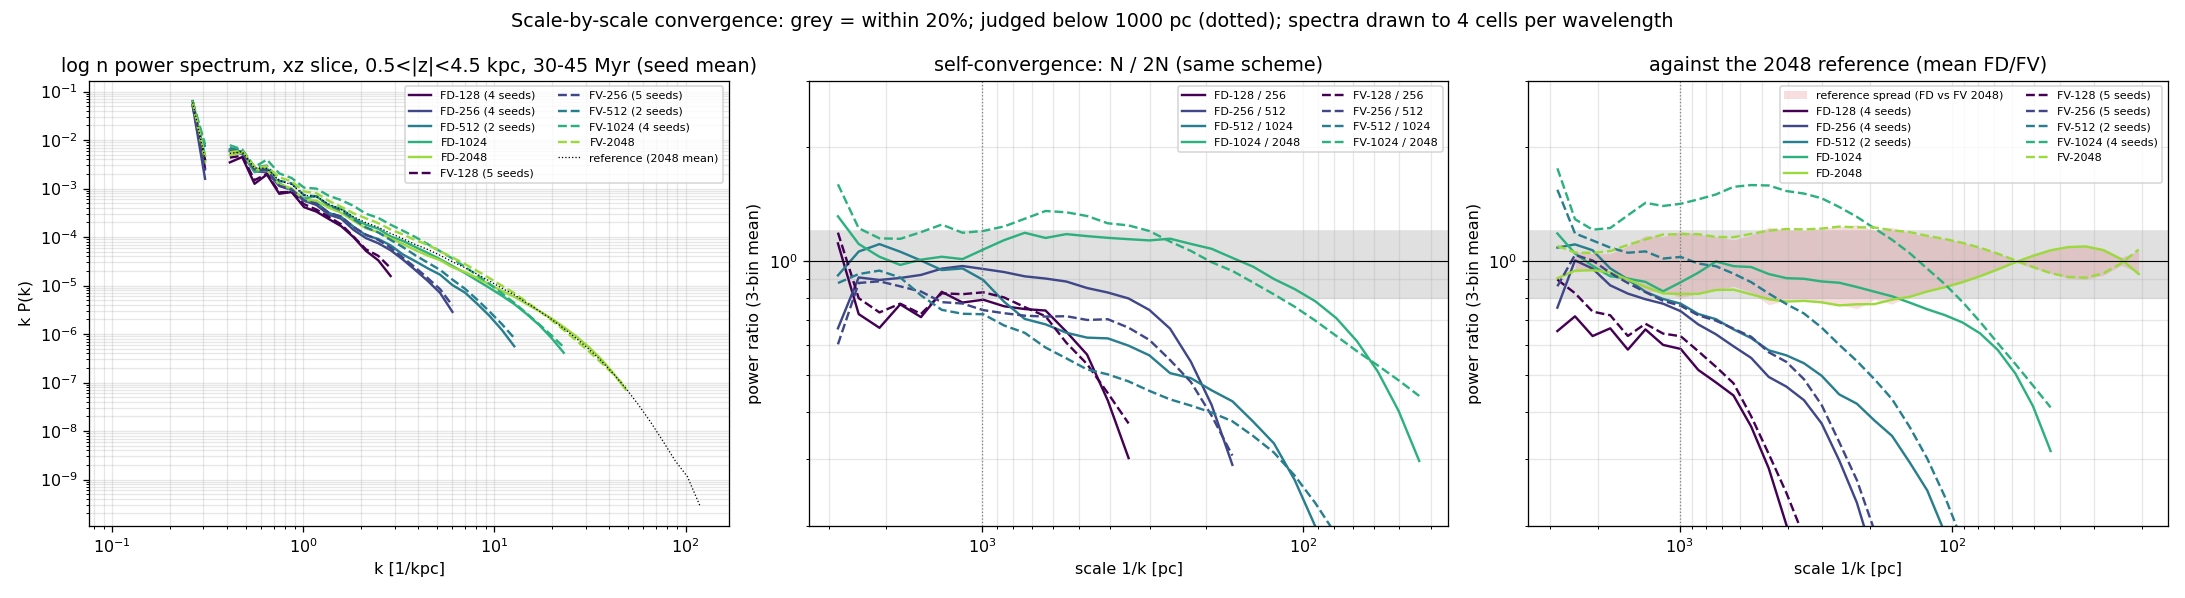
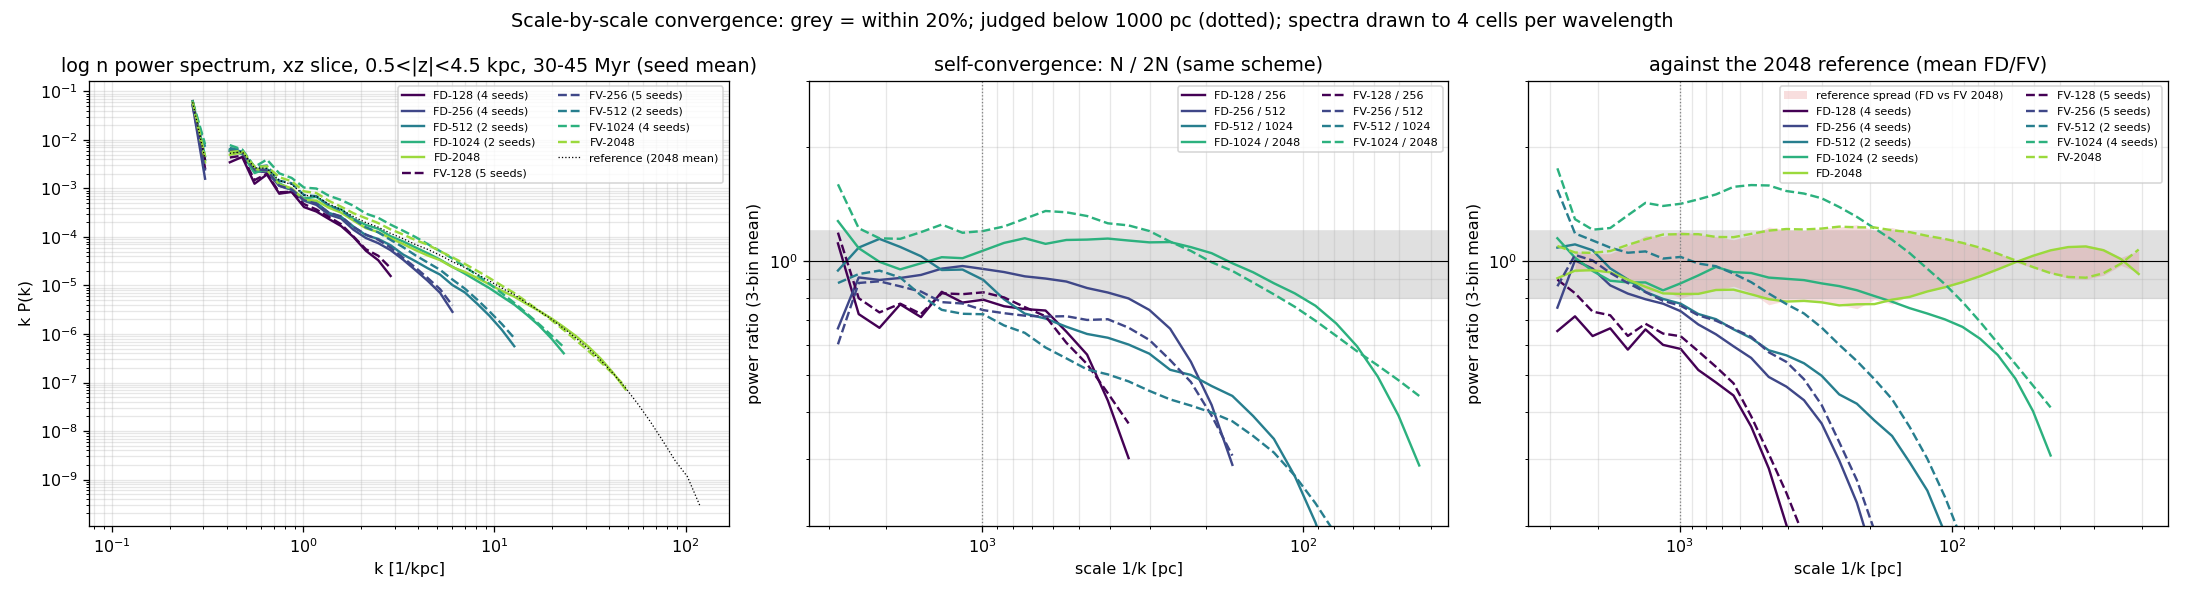
cgols synthesis: + FD-1024 seed 1 (HoreKa 127497), measured FD-1024 sigma_traj
FD-1024 sigma from 2 members replaces the extrapolated value. Cost-accuracy
family verdicts unchanged; slice-spectrum l_c of FD-1024 vs the 2048 reference
166 -> 193 pc with the seed average. 3D cache (job 133279) still pending.

diff --git a/pytests/self_gravity/cgols/cgols_fvfd_synthesis.py b/pytests/self_gravity/cgols/cgols_fvfd_synthesis.py
@@ -71,6 +71,7 @@ ladder); and the GPU-hours per run. The ablations (HLLE, fp64, CFL 0.3, PPM) are
     # sigma_traj measured (2 members).
     # 2026-11-11: + FV-1024 seeds 2 and 3 (RUNS["FV1024s2"], ["FV1024s3"], HoreKa jobs 127474 / 127475): FV-1024
     # sigma_traj from 4 members.
+    # 2026-11-16: + FD-1024 seed 1 (RUNS["FD1024s1"], HoreKa job 127497): FD-1024 sigma_traj measured (2 members).
     # 2026-11-09: + FD-2048 (RUNS["FD2048"], the A-2048 production run; frames, emission and 3D caches from the
     # A-2048 analysis). FD-FV rows, the FD 512 -> 1024 -> 2048 ladder and the slope fit now run to 2048. 3D
     # metrics now always include their own time-sampling error (also the early ones), and the mixed outflow at 1 kpc
@@ -155,6 +156,10 @@ RUNS = {
     "FV512hlle": ("FV", 512, "HLLE", f"{DIAG}/A512fvhlle", "_A512fvhlle", None,
                   f"{LOGS}/diagnostics/cgols_diag_A512fvhlle.log"),
     "FD1024": ("FD", 1024, "base", "cgols_snapshots_A1024", "_A1024", "_A1024", f"{LOGS}/cgols_diag_A1024.log"),
+    # HoreKa job 127497 (2 nodes x 4 H200, code 494d1b5 + 150f50f): IC seed 1, the first measured FD-1024 sigma;
+    # 15:20 h wall, 60 checkpoints kept on HoreKa
+    "FD1024s1": ("FD", 1024, "ens", "cgols_snapshots_A1024s1", "_A1024s1", "_A1024s1",
+                 f"{LOGS}/cgols_diag_A1024s1.log"),
     "FV1024": ("FV", 1024, "base", "cgols_snapshots_A1024fv", "_A1024fv", "_A1024fv", f"{LOGS}/cgols_diag_A1024fv.log"),
     # HoreKa job 117180 (4 H200, split (1, 2, 2, 1), code 494d1b5): IC seed 1, the first measured FV-1024 sigma;
     # 3D cache from HoreKa job 121315 (all 60 checkpoints)
